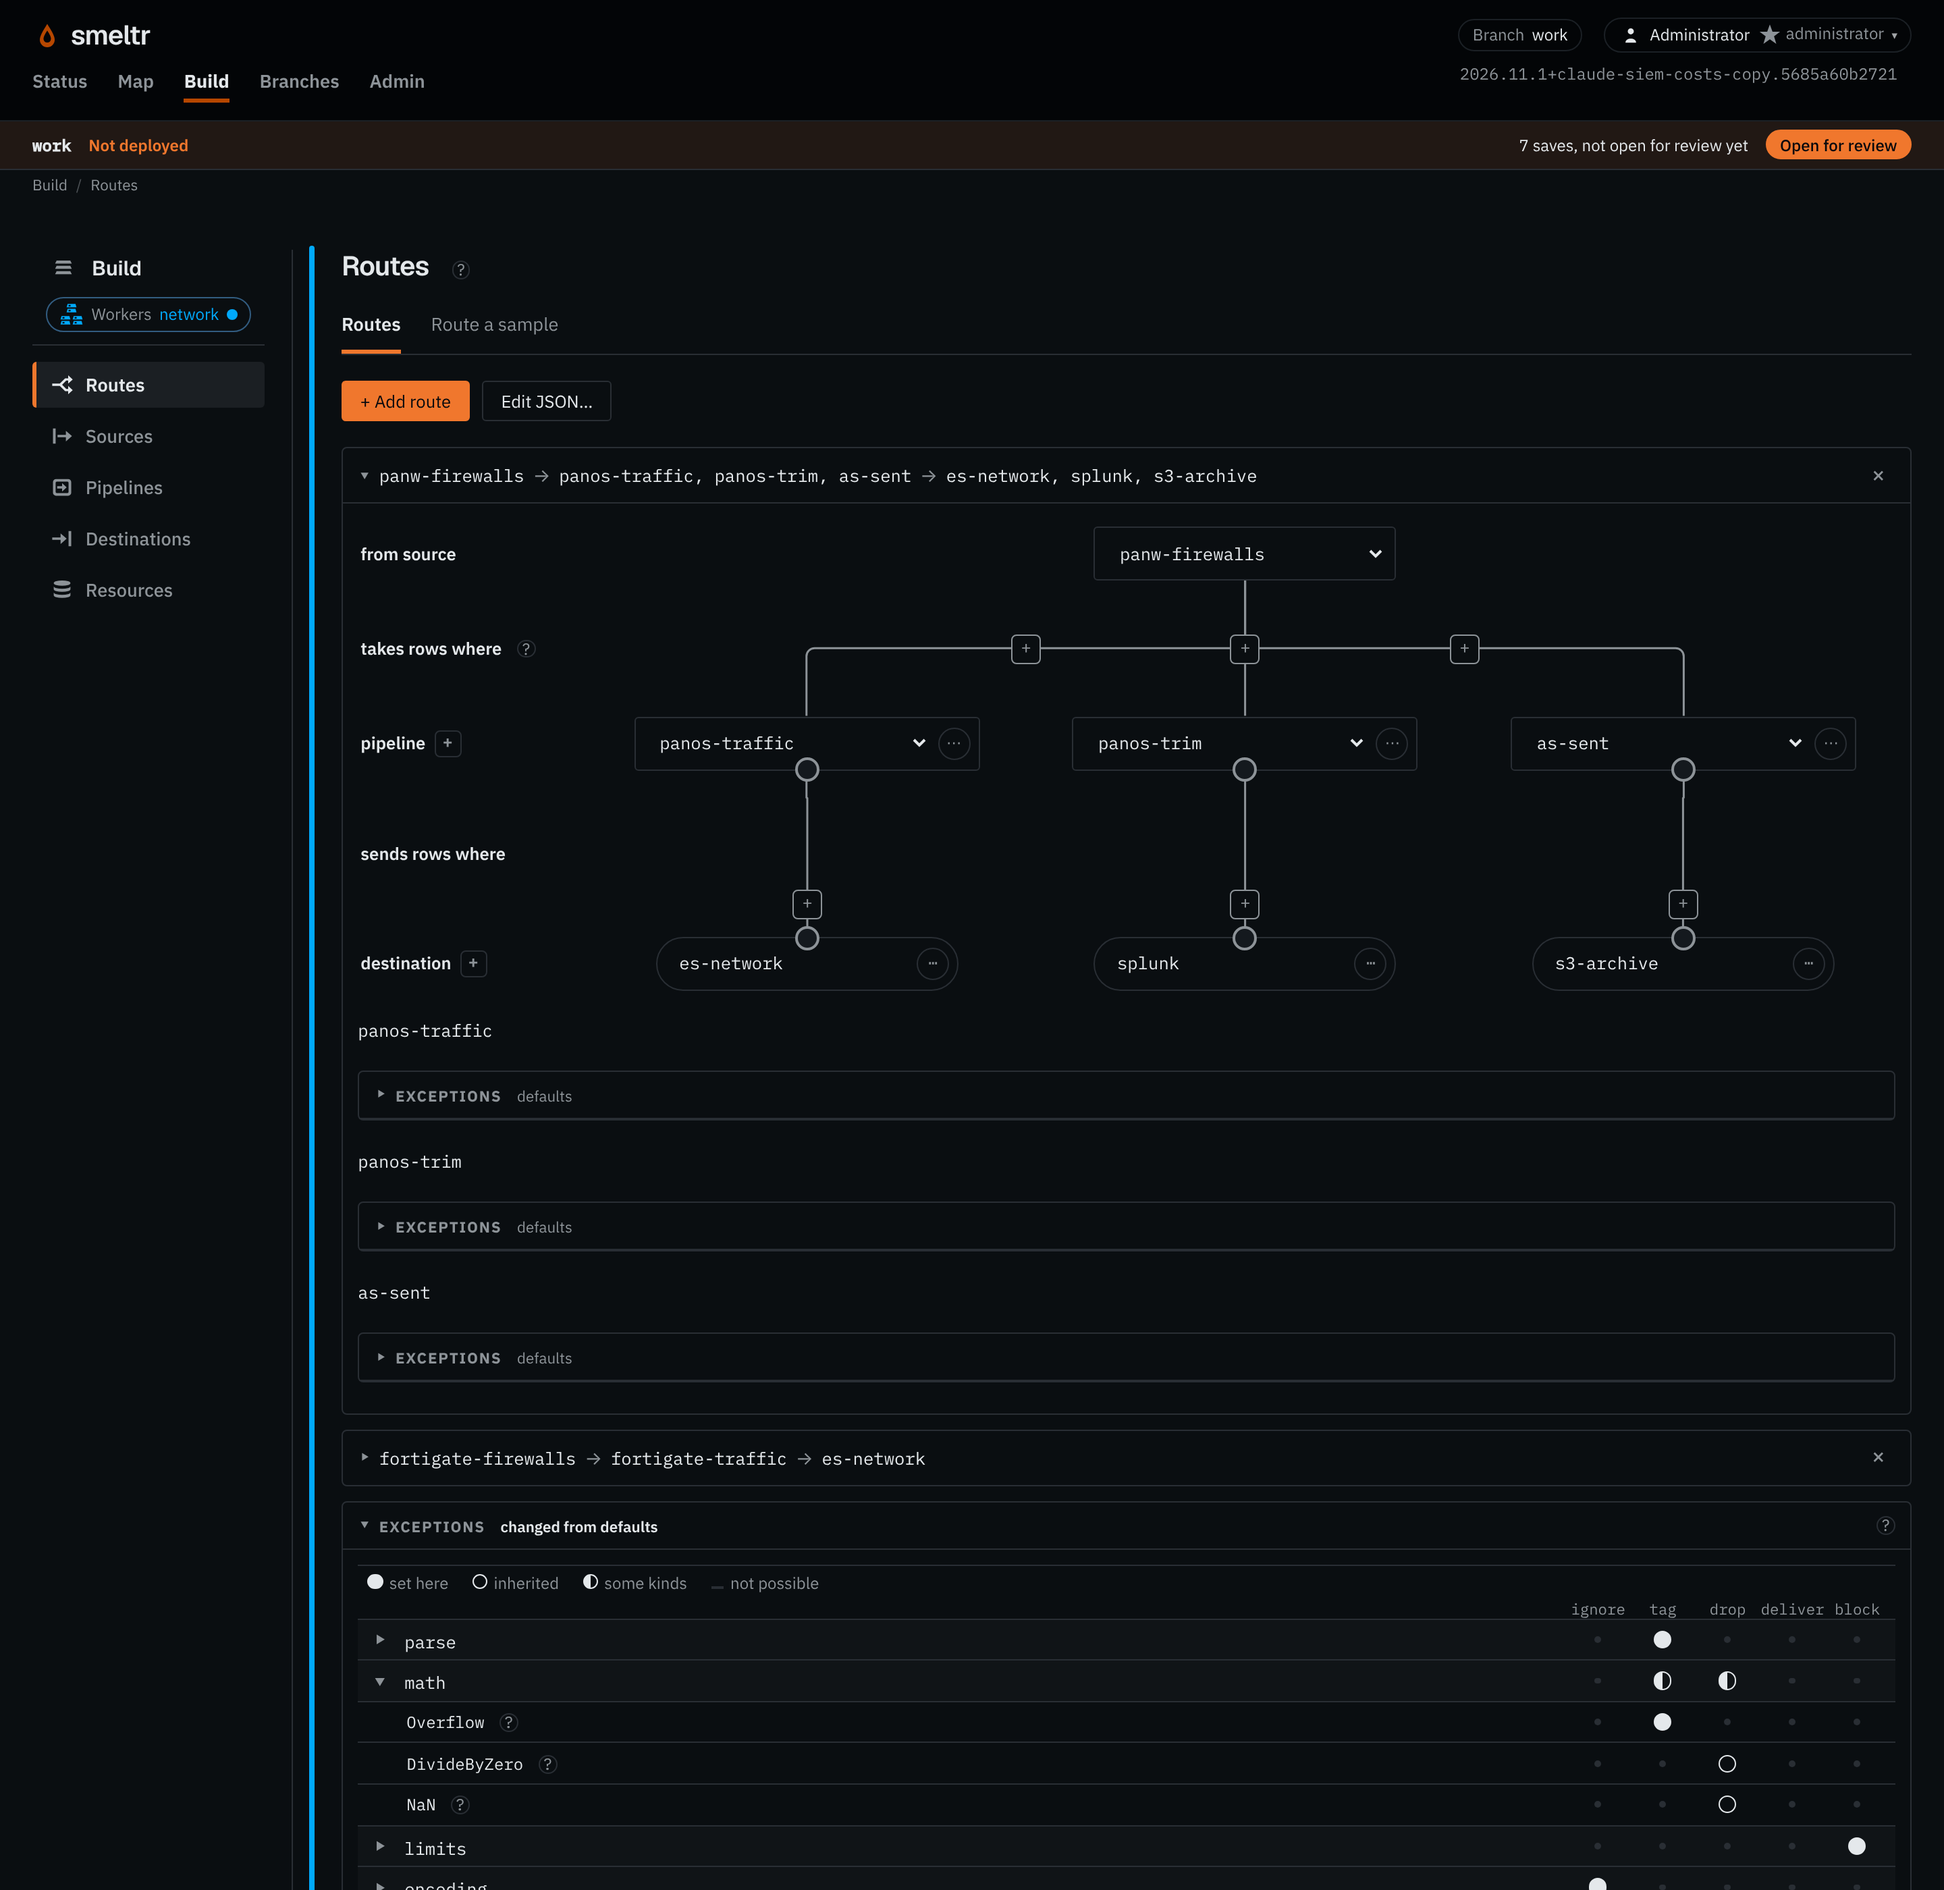
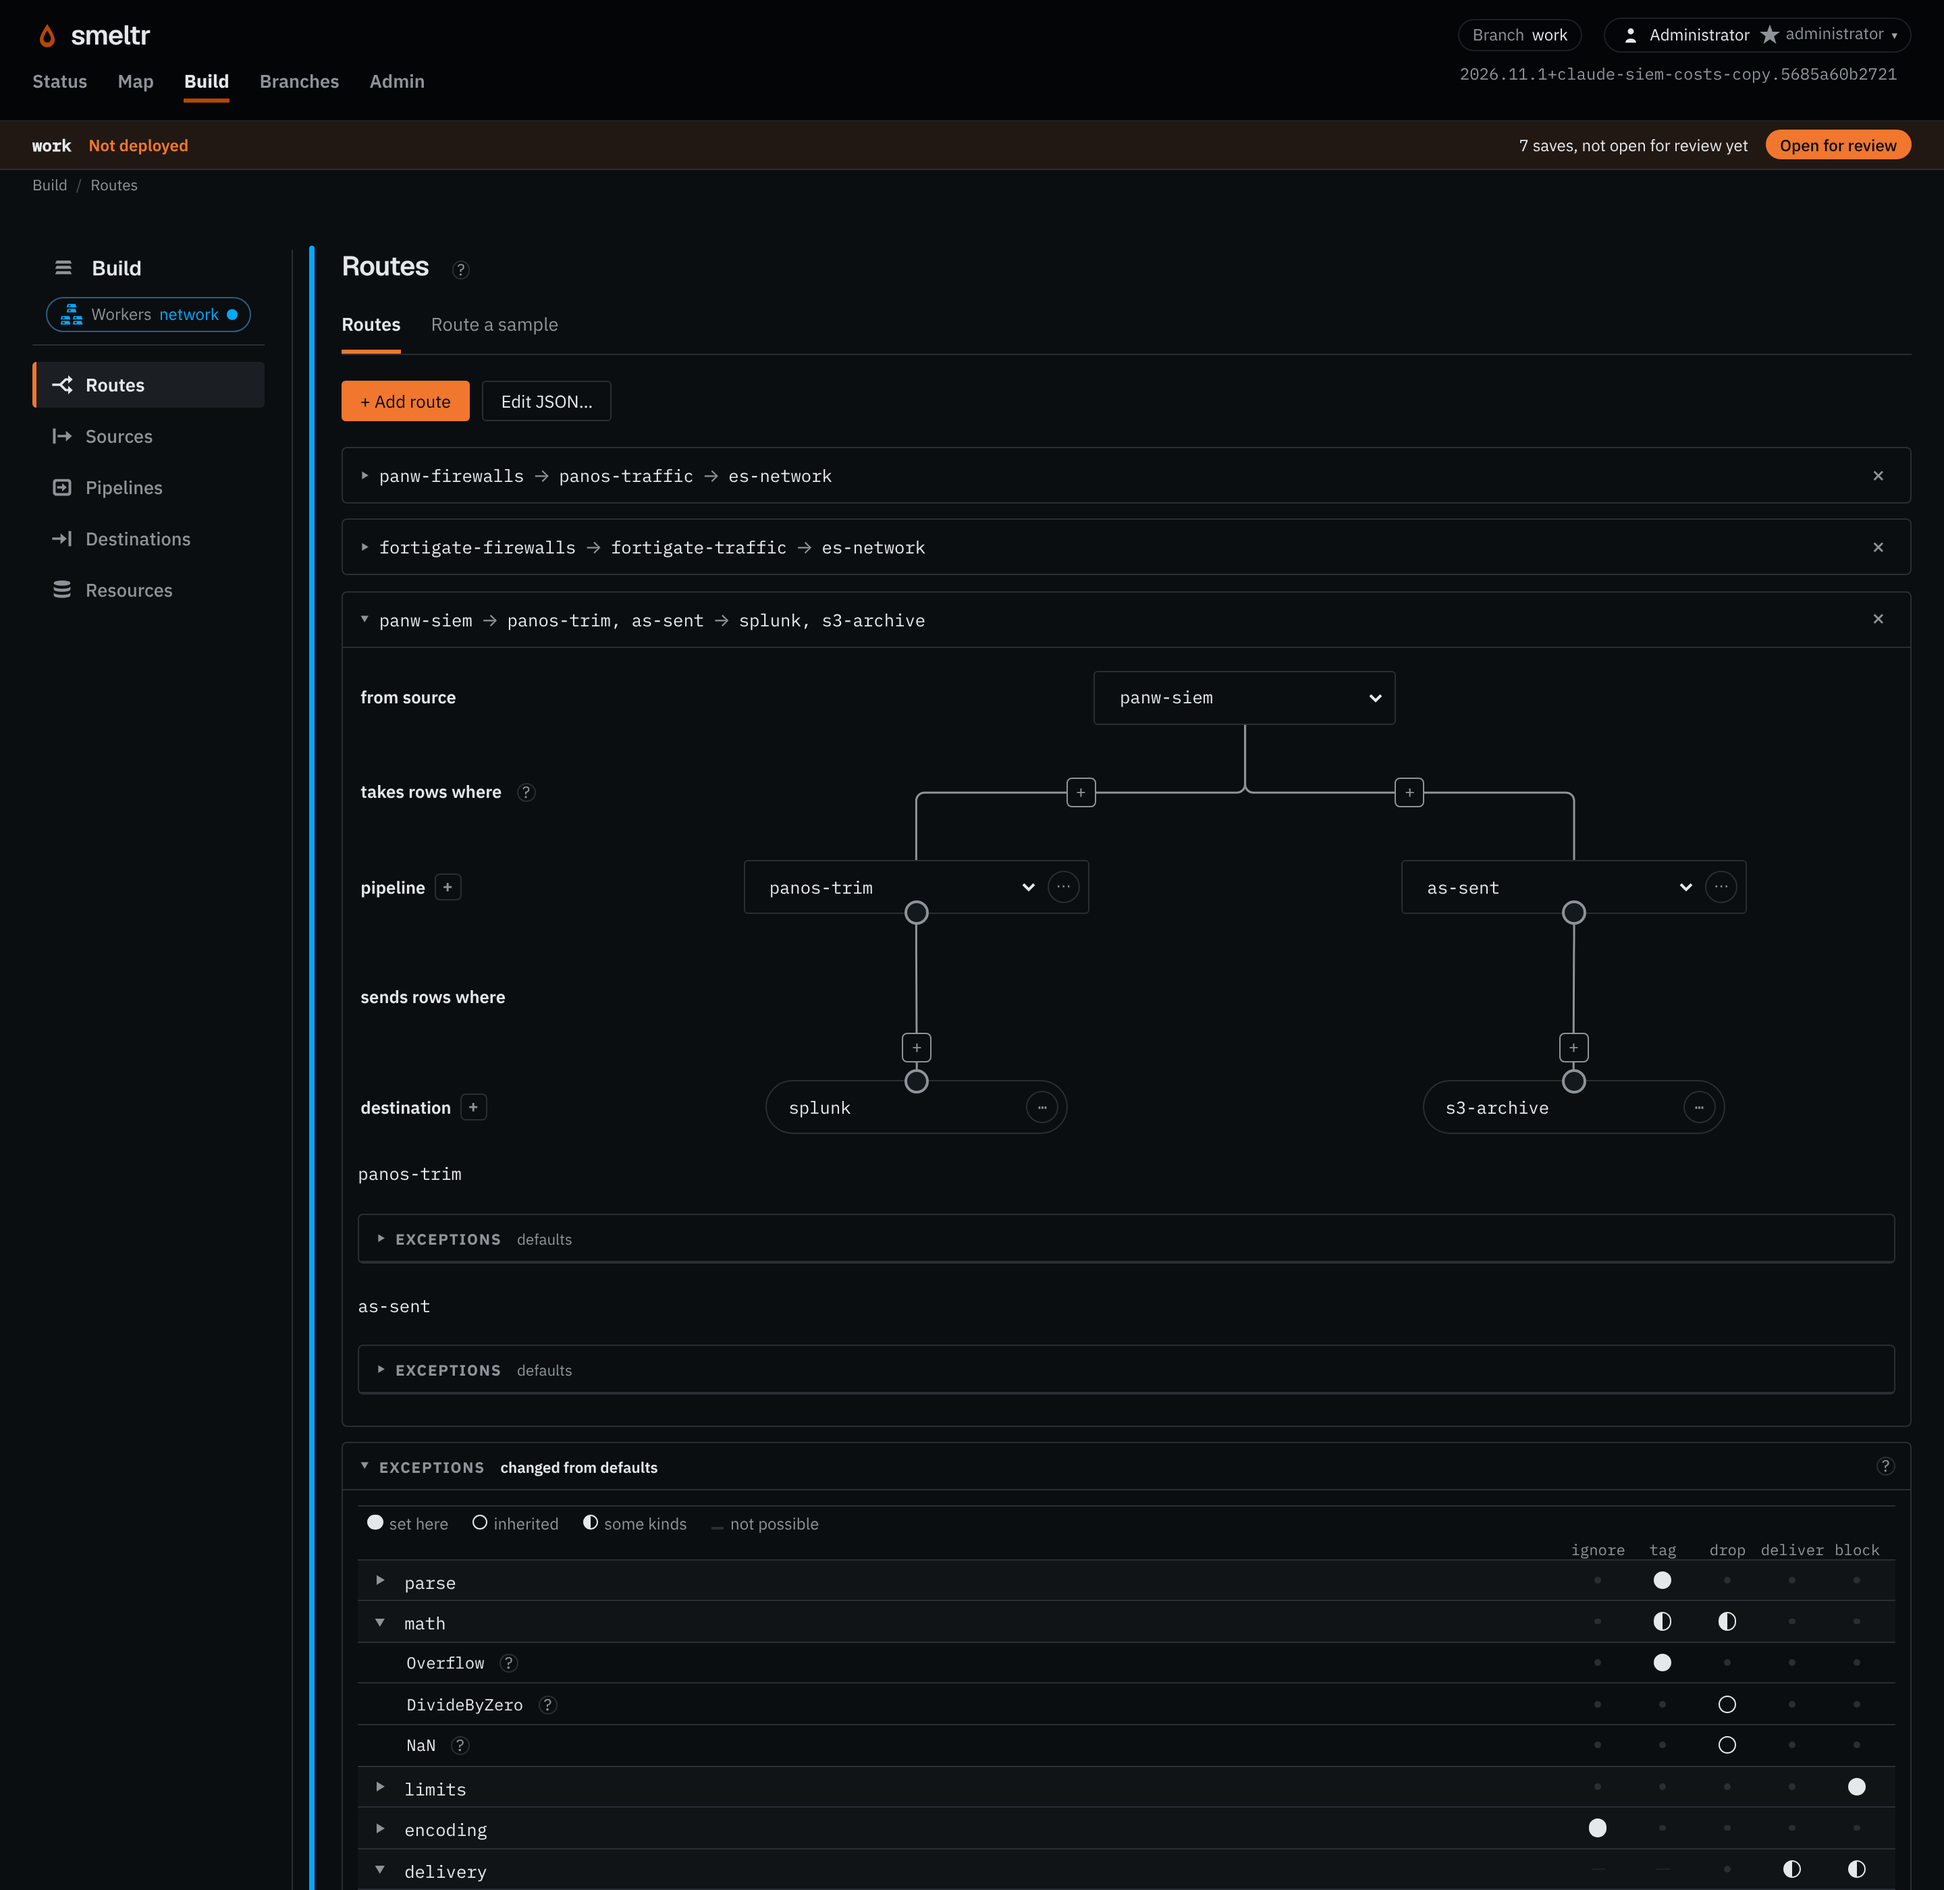
Give the SIEM routes a source of their own, so the shot shows only the SIEM and the archive
Claude-Session: https://claude.ai/code/session_016X7h2RhLvp1HvfZozgwZZV

diff --git a/website/src/routes/siem-costs/+page.svelte b/website/src/routes/siem-costs/+page.svelte
@@ -41,9 +41,9 @@
     <ProductScreenshot
       source="siem-routes"
       height={2800}
-      crop={{ x: 507, y: 661, width: 2323, height: 850 }}
-      alt="The Routes page: the panw-firewalls source feeds three pipelines, panos-traffic to es-network, panos-trim to splunk, and as-sent to s3-archive."
-      caption="One source, three routes. Every route whose condition matches runs, so Elasticsearch gets the traffic mapped to ECS, Splunk gets the trimmed lines, and S3 keeps each line as it was sent."
+      crop={{ x: 507, y: 877, width: 2323, height: 830 }}
+      alt="The Routes page: the panw-siem source feeds two pipelines, panos-trim to splunk and as-sent to s3-archive."
+      caption="One source, two routes. Every route whose condition matches runs, so Splunk gets the trimmed lines and S3 keeps each line as it was sent."
     />
     <p>
       <a href="/docs/destinations/s3">Amazon S3</a> ·

diff --git a/tools/screenshots/bundle.py b/tools/screenshots/bundle.py
@@ -431,6 +431,8 @@ NETWORK_SOURCES = [
     kafka_source("netscout-aed", "syslog.netscout", "smeltr-netscout"),
     kafka_source("router-snmp", "metrics.snmp.interface", "smeltr-snmp"),
 ]
+# The same PAN-OS lines, read again for the SIEM and the archive.
+SIEM_SOURCE = kafka_source("panw-siem", "syslog.panos", "smeltr-panos-siem")
 APPS_SOURCES = [
     kafka_source("nginx-access", "web.nginx.access", "smeltr-nginx"),
     kafka_source("linux-auth", "syslog.auth", "smeltr-auth"),
@@ -454,12 +456,12 @@ NETWORK_ROUTES = [
     {"id": "fortigate", "source": "fortigate-firewalls", "condition": None, "pipeline": "fortigate-traffic",
      "deliver": [{"to": ["es-network"]}]},
 ]
-# The same PAN-OS feed twice more, since every route whose condition matches runs: trimmed to the SIEM, and whole
-# to the archive.
+# Two routes from one source, since every route whose condition matches runs: trimmed to the SIEM, and whole to
+# the archive.
 SIEM_ROUTES = [
-    {"id": "panos-siem", "source": "panw-firewalls", "condition": None, "pipeline": "panos-trim",
+    {"id": "panos-siem", "source": "panw-siem", "condition": None, "pipeline": "panos-trim",
      "deliver": [{"to": ["splunk"]}]},
-    {"id": "panos-archive", "source": "panw-firewalls", "condition": None, "pipeline": "as-sent",
+    {"id": "panos-archive", "source": "panw-siem", "condition": None, "pipeline": "as-sent",
      "deliver": [{"to": ["s3-archive"]}]},
 ]
 APPS_ROUTES = [

diff --git a/tools/screenshots/stage.py b/tools/screenshots/stage.py
@@ -48,7 +48,7 @@ TOPICS = [("syslog.panos", 4), ("syslog.fortigate", 4), ("web.nginx.access", 2),
           ("aws.cloudtrail", 1), ("syslog.asa", 2), ("syslog.panos.threat", 1), ("syslog.versa", 2),
           ("syslog.netscout", 1), ("metrics.snmp.interface", 1), ("elastic.agent.linux", 1),
           ("elastic.agent.windows", 1), ("azure.eventhub.sentinel", 1), ("smeltr.dlq", 1), ("alerts.security", 2)]
-CONSUMER_GROUPS = [s["groupId"] for s in bundle.NETWORK_SOURCES + bundle.APPS_SOURCES]
+CONSUMER_GROUPS = [s["groupId"] for s in bundle.NETWORK_SOURCES + [bundle.SIEM_SOURCE] + bundle.APPS_SOURCES]
 KAFKA = ["docker", "compose", "-f", os.path.join(REPO, "tests", "live", "compose.live.yaml"), "exec", "-T", "kafka"]
 
 
@@ -406,6 +406,7 @@ def siem():
     b = "trim-panos-for-splunk"
     c.put("destinations", bundle.destinations(bundle.NETWORK_DESTINATIONS + bundle.SIEM_DESTINATIONS, 1), b,
           "network")
+    c.put("sources", bundle.NETWORK_SOURCES + [bundle.SIEM_SOURCE], b, "network")
     for p in (bundle.PANOS_TRIM, bundle.AS_SENT):
         c.put_pipeline(p, b, "network")
     c.put("routes", bundle.NETWORK_ROUTES + bundle.SIEM_ROUTES, b, "network")

diff --git a/tools/screenshots/README.md b/tools/screenshots/README.md
@@ -17,13 +17,13 @@ The PNGs land in `shots/` as `<nn>-<page>-<light|dark>.png`, 1440 px wide at 2x 
 
 ```mermaid
 graph LR
-  gen[demo-traffic] --> pa([panw-firewalls]) & fg([fortigate-firewalls]) & ng([nginx-access]) & au([linux-auth]) & ct([aws-cloudtrail])
+  gen[demo-traffic] --> pa([panw-firewalls]) & ps([panw-siem]) & fg([fortigate-firewalls]) & ng([nginx-access]) & au([linux-auth]) & ct([aws-cloudtrail])
   gen --> asa([cisco-asa]) & pt([panw-threats]) & vs([versa-sdwan]) & aed([netscout-aed]) & snmp([router-snmp])
   gen --> eal([elastic-agent-linux]) & eaw([elastic-agent-windows]) & sen([sentinel-eventhub])
   subgraph network [Network security: fw-collector-01, -02]
     pa --> pp[panos-traffic] --> esn([es-network])
-    pa --> pt2[panos-trim] --> spl([splunk])
-    pa --> arc([s3-archive])
+    ps --> pt2[panos-trim] --> spl([splunk])
+    ps --> arc([s3-archive])
     fg --> fp[fortigate-traffic] --> esn
     asa & pt & vs & aed & snmp
   end
